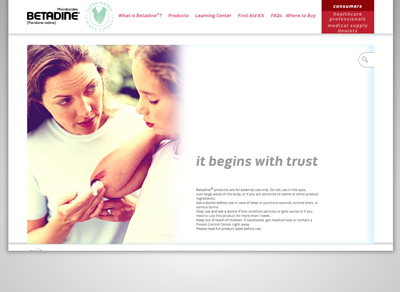
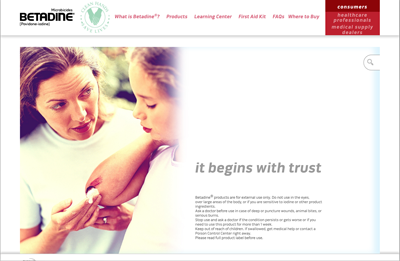
updated thumb image

diff --git a/css/main_copy.css b/css/main_copy.css
@@ -41,7 +41,7 @@ a:focus {
 }
 
 a {
- color: #9f1f00;
+ color: #e5e4e4;
  font-weight: 400;
 }
 a:visited {
@@ -52,7 +52,7 @@ a:visited {
 }
 
 a:hover {
- color: #202c9e;
+ color: #434343;
  text-decoration: none;
 }
 
